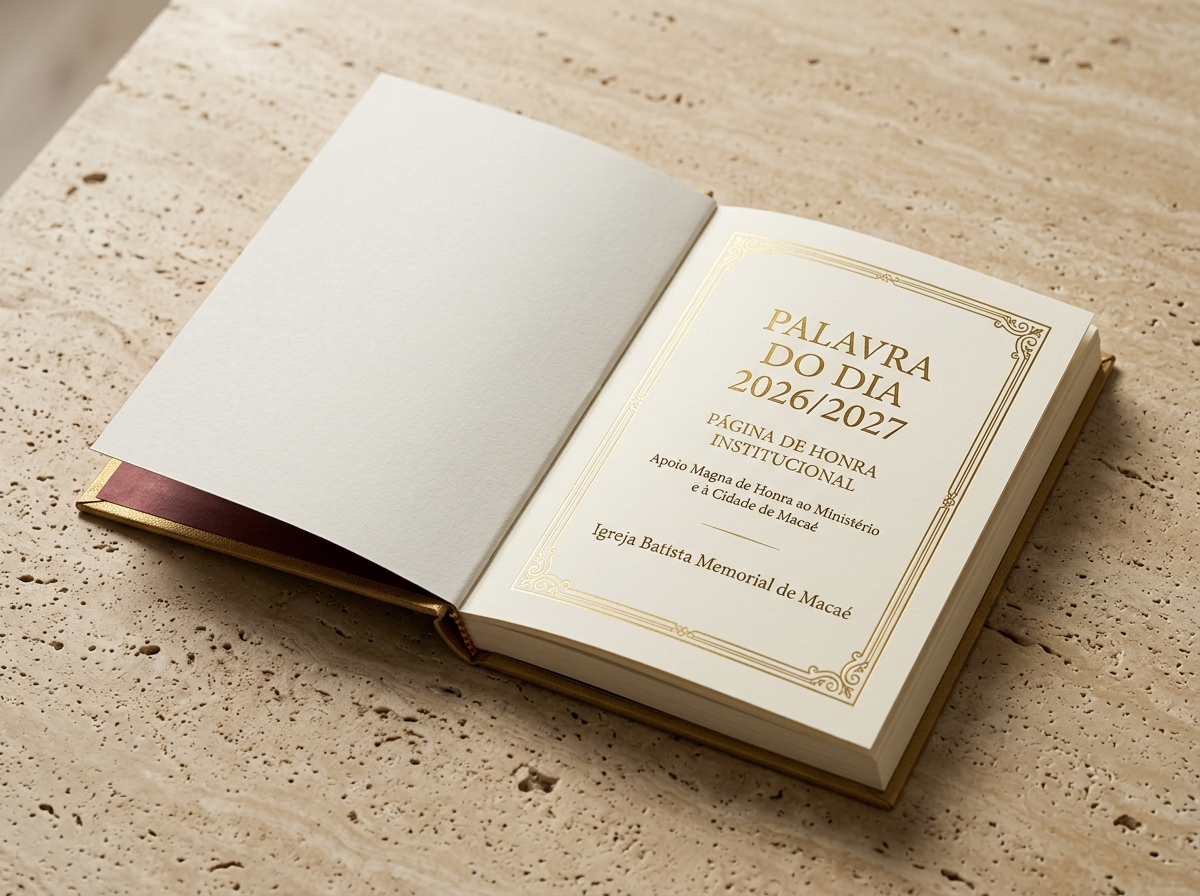
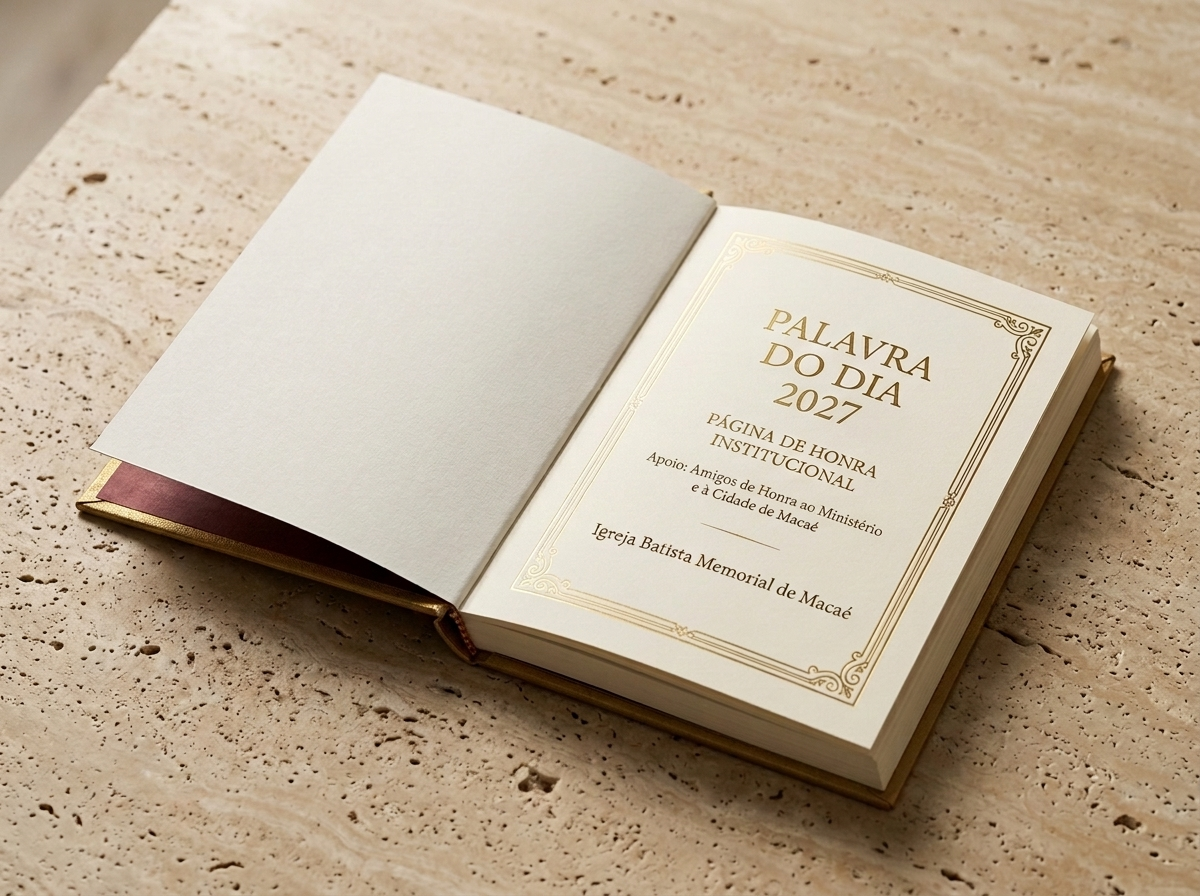
fix: substitui fotografias com ano estrito 2027 e cache-bust

diff --git a/index.html b/index.html
@@ -847,7 +847,7 @@
                 showMonths: false
             },
             capa2: {
-                image: "livro-segunda-capa.jpg",
+                image: "livro-segunda-capa.jpg?v=2027",
                 tag: "Capa Interna Frontal (Platina 1 e Platina 2 • Colorida)",
                 sub: "Face interna da capa frontal: 2 cotas independentes de meia página (Platina 1 e Platina 2) ou página inteira exclusiva ao lado da folha de rosto.",
                 badge: "Cotas Platina 1 & 2 • Colorida",
@@ -862,7 +862,7 @@
                 showMonths: false
             },
             capa3: {
-                image: "livro-terceira-capa.jpg",
+                image: "livro-terceira-capa.jpg?v=2027",
                 tag: "Capa Interna Traseira (Platina 3 e Platina 4 • Colorida)",
                 sub: "Face interna da contracapa traseira: 2 cotas independentes de meia página (Platina 3 e Platina 4) ou página inteira exclusiva ao lado de 31 de dezembro.",
                 badge: "Cotas Platina 3 & 4 • Colorida",
@@ -877,7 +877,7 @@
                 showMonths: false
             },
             "honra-abertura": {
-                image: "livro-aberto-honra.jpg",
+                image: "livro-aberto-honra.jpg?v=2027",
                 tag: "1ª Página do Miolo (Cota Ouro de Abertura)",
                 sub: "Primeiríssima folha interna do miolo à direita: moldura solene com mensagem institucional de abertura do devocional 2027.",
                 badge: "Cota Ouro • 1ª Página do Miolo",
@@ -892,7 +892,7 @@
                 showMonths: false
             },
             "honra-encerramento": {
-                image: "livro-honra-encerramento.jpg?v=9",
+                image: "livro-honra-encerramento.jpg?v=2027",
                 tag: "Folha de Guarda Final (Cota Prata)",
                 sub: "Folha nobre de guarda ao final da obra: papel encorpado de alta gramatura, fecho solene de todo o devocional 2027.",
                 badge: "Cota Prata • Guarda Final",
